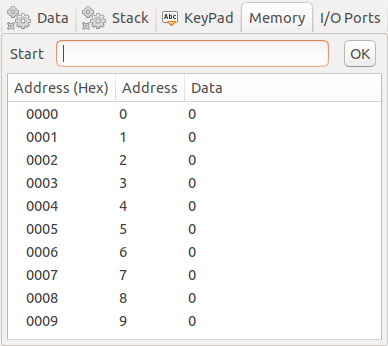
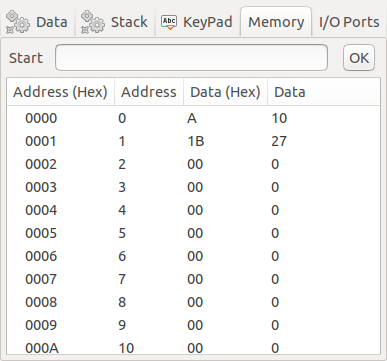
Documentation update, fixes #27

diff --git a/doc/help/userguide.md b/doc/help/userguide.md
@@ -62,7 +62,7 @@ The user interface of GNUSim8085 consists of following components currently.
   * Memory details  
       
     ![Tab Memory](tab_memory.png)  
-    This tab provides easy access to the memory contents. By default only first 1000 locations are shown. To see next locations, enter address in ‘Start’ text box and press ‘OK’ button.  
+    This tab provides easy access to the memory contents. By default only first 1000 locations are shown. To see next locations, enter address in ‘Start’ text box and press ‘OK’ button. You can either edit hexadecimal values in Data (Hex) column or decimal values in Data column. When using hexadecimal values do not add h or H as suffix. For example simply enter A or 1B and not Ah or 1Bh.  
     
   * I/O details  
       
